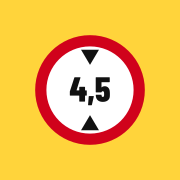
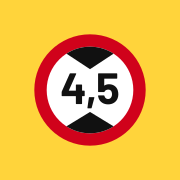
Ny höjdskylt i loggan och alla ikoner (modell C17, vit, 4,5)
Claude-Session: https://claude.ai/code/session_01KKpdg2GMJrMkGjVmT4hKDy

diff --git a/index.html b/index.html
@@ -6,23 +6,23 @@
 <meta name="theme-color" content="#FFD43B">
 <title>Lastväg</title>
 <meta name="description" content="Höjdhinder på svenska vägar för lastbilar, enligt Trafikverkets vägdata (NVDB).">
-<link rel="manifest" href="manifest.webmanifest?v=2">
-<link rel="icon" href="icon-192.png?v=2" type="image/png" sizes="192x192">
+<link rel="manifest" href="manifest.webmanifest?v=3">
+<link rel="icon" href="icon-192.png?v=3" type="image/png" sizes="192x192">
 <link rel="icon" href="icon.svg" type="image/svg+xml">
-<link rel="apple-touch-icon" href="apple-touch-icon.png?v=2">
+<link rel="apple-touch-icon" href="apple-touch-icon.png?v=3">
 <meta name="apple-mobile-web-app-capable" content="yes">
 <meta name="mobile-web-app-capable" content="yes">
 <meta name="apple-mobile-web-app-title" content="Lastväg">
 <link rel="stylesheet" href="lib/fonts/fonts.css">
 <link rel="stylesheet" href="lib/leaflet/leaflet.css">
-<link rel="stylesheet" href="style.css?v=24">
+<link rel="stylesheet" href="style.css?v=25">
 </head>
 <body>
 
 <!-- ===== Kartan + listan (vanligt läge) ===== -->
 <div id="app">
   <header class="top">
-    <div class="brand" data-ingen-oversattning><svg class="brand-ikon" viewBox="0 0 200 200" aria-hidden="true"><circle cx="100" cy="100" r="88" fill="#fff" stroke="#D0021B" stroke-width="20"/><path d="M84 28h32l-16 27z" fill="#111" stroke="none"/><path d="M84 172h32l-16-27z" fill="#111" stroke="none"/><text x="100" y="121" text-anchor="middle" font-family="Barlow Condensed, Arial Narrow, sans-serif" font-weight="800" font-size="62" fill="#111" stroke="none">4,5</text></svg>LASTVÄG</div>
+    <div class="brand" data-ingen-oversattning><svg class="brand-ikon" viewBox="0 0 200 200" aria-hidden="true"><circle cx="100" cy="100" r="88" fill="#fff" stroke="#D0021B" stroke-width="22"/><path stroke="none" d="M58.1 35.4A77 77 0 0 1 141.9 35.4L100 63Z" fill="#111"/><path stroke="none" d="M58.1 164.6A77 77 0 0 0 141.9 164.6L100 139Z" fill="#111"/><text stroke="none" x="100" y="125" text-anchor="middle" font-family="Barlow, Arial, sans-serif" font-weight="700" font-size="78" letter-spacing="-2" fill="#111">4,5</text></svg>LASTVÄG</div>
     <button id="btnFordon" class="pill" aria-label="Ändra fordonets höjd">
       <svg viewBox="0 0 24 24" aria-hidden="true"><rect x="2" y="7" width="13" height="10"/><path d="M15 10h4l3 3v4h-7"/><circle cx="7" cy="18" r="2"/><circle cx="18" cy="18" r="2"/></svg>
       <span id="pillHojd">4,10 m</span>
@@ -356,8 +356,8 @@
 </dialog>
 
 <script src="lib/leaflet/leaflet.js"></script>
-<script src="i18n.js?v=24"></script>
-<script src="vikt.js?v=24"></script>
-<script src="app.js?v=24"></script>
+<script src="i18n.js?v=25"></script>
+<script src="vikt.js?v=25"></script>
+<script src="app.js?v=25"></script>
 </body>
 </html>

diff --git a/sw.js b/sw.js
@@ -1,5 +1,5 @@
 // Lastväg – enkel offline-cache för appens egna filer (kartbilderna kräver nät)
-const CACHE = 'lastvag-v3';
+const CACHE = 'lastvag-v4';
 const FILER = ['./', 'index.html', 'style.css', 'app.js', 'vikt.js', 'i18n.js', 'data/hinder.json', 'data/bk.json', 'data/adr.json', 'manifest.webmanifest', 'icon.svg', 'icon-192.png', 'icon-512.png', 'integritet.html', 'lib/leaflet/leaflet.js', 'lib/leaflet/leaflet.css', 'lib/fonts/fonts.css', 'lib/fonts/Barlow-Regular.woff', 'lib/fonts/Barlow-Medium.woff', 'lib/fonts/Barlow-SemiBold.woff', 'lib/fonts/Barlow-Bold.woff', 'lib/fonts/BarlowCondensed-SemiBold.woff', 'lib/fonts/BarlowCondensed-Bold.woff', 'lib/fonts/BarlowCondensed-ExtraBold.woff'];
 self.addEventListener('install', (e) => e.waitUntil(caches.open(CACHE).then((c) => c.addAll(FILER)).then(() => self.skipWaiting())));
 self.addEventListener('activate', (e) => e.waitUntil(caches.keys().then((k) => Promise.all(k.filter((n) => n !== CACHE).map((n) => caches.delete(n)))).then(() => self.clients.claim())));
